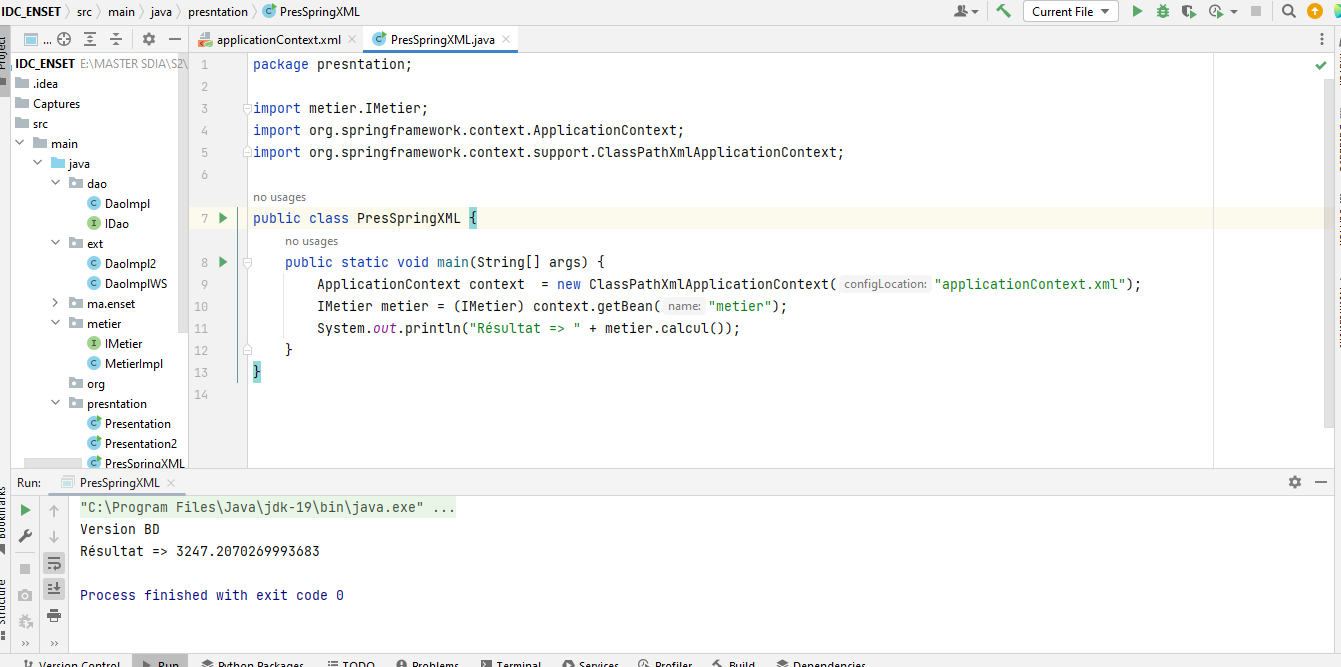
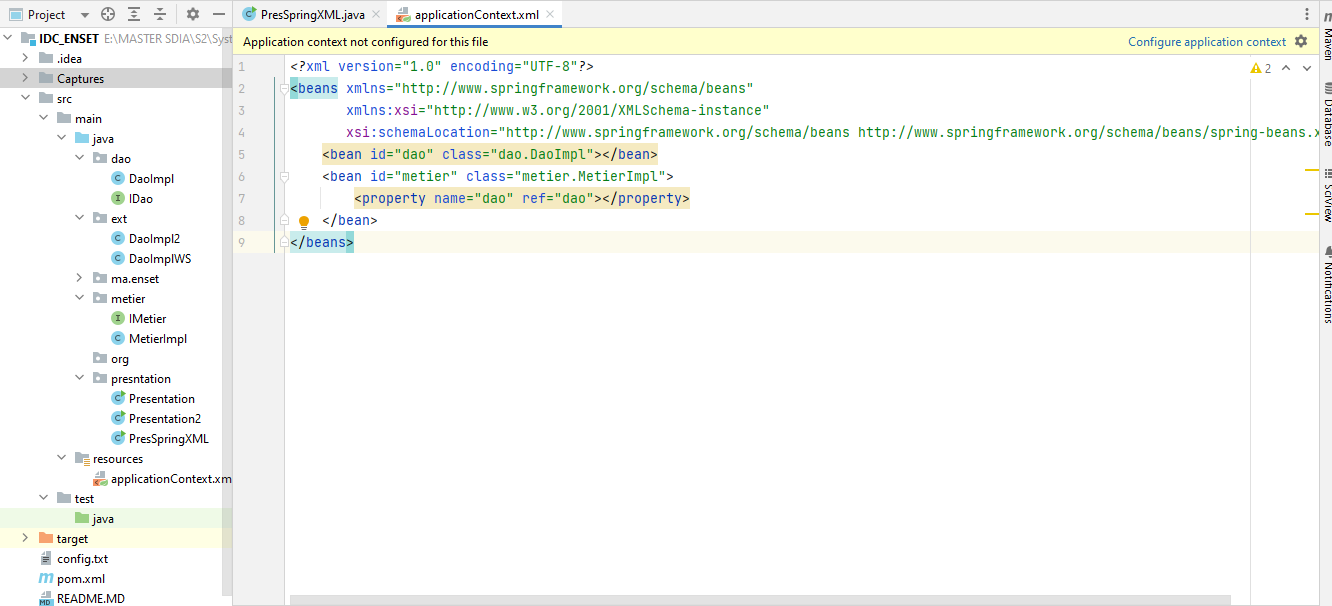
fourt Commit

diff --git a/src/main/java/presntation/PresSpringAnnotation.java b/src/main/java/presntation/PresSpringAnnotation.java
@@ -1,0 +1,14 @@
+package presntation;
+
+import metier.IMetier;
+import org.springframework.context.ApplicationContext;
+import org.springframework.context.annotation.AnnotationConfigApplicationContext;
+
+public class PresSpringAnnotation {
+    public static void main(String[] args) {
+        ApplicationContext context = new AnnotationConfigApplicationContext("dao","metier","ext");
+        IMetier metier = context.getBean(IMetier.class);
+        System.out.println(metier.calcul());
+    }
+}
+

diff --git a/src/main/java/metier/MetierImpl.java b/src/main/java/metier/MetierImpl.java
@@ -1,11 +1,17 @@
 package metier;
 
 import dao.IDao;
+import org.springframework.beans.factory.annotation.Autowired;
+import org.springframework.beans.factory.annotation.Qualifier;
+import org.springframework.stereotype.Component;
 
+@Component
 public class MetierImpl implements IMetier {
     // Couplage faible
+
     private IDao dao;
-    public MetierImpl (IDao dao) {
+
+    public MetierImpl(IDao dao) {
         this.dao = dao;
     }
     @Override

diff --git a/src/main/java/presntation/Presentation.java b/src/main/java/presntation/Presentation.java
@@ -9,8 +9,8 @@ public class Presentation {
         Injection des dependances par instanciation static => new
          */
         DaoImpl2 dao = new DaoImpl2();
-        MetierImpl metier = new MetierImpl();
-        metier.setDao(dao);
+        MetierImpl metier = new MetierImpl(dao);
+        //metier.setDao(dao);
         System.out.println("Resultat : "+ metier.calcul());
     }
 }

diff --git a/src/test/java/CalculTest.java b/src/test/java/CalculTest.java
@@ -1,0 +1,16 @@
+import metier.Calcul;
+import org.junit.Assert;
+import org.junit.Test;
+
+public class CalculTest {
+    private Calcul calcul;
+    @Test
+    public void testSomme(){
+        calcul= new Calcul();
+        double a  =5 ;
+        double b = 9;
+        double expected = 14;
+        double res = calcul.somme(a,b);
+        Assert.assertTrue(res==expected);
+    }
+}

diff --git a/src/main/java/ext/DaoImpl2.java b/src/main/java/ext/DaoImpl2.java
@@ -2,7 +2,9 @@ package ext;
 
 
 import dao.IDao;
+import org.springframework.stereotype.Component;
 
+@Component("dao2")
 public class DaoImpl2 implements IDao {
     @Override
     public double getData() {

diff --git a/src/main/java/dao/DaoImpl.java b/src/main/java/dao/DaoImpl.java
@@ -1,5 +1,8 @@
 package dao;
 
+import org.springframework.stereotype.Component;
+
+@Component("dao")
 public class DaoImpl implements IDao{
     @Override
     public double getData() {

diff --git a/src/main/java/metier/Calcul.java b/src/main/java/metier/Calcul.java
@@ -1,0 +1,7 @@
+package metier;
+
+public class Calcul {
+    public double somme(double a, double b){
+        return a + b;
+    }
+}

diff --git a/src/main/java/dao/IDao.java b/src/main/java/dao/IDao.java
@@ -1,5 +1,4 @@
 package dao;
-
 public interface IDao {
     double getData();
 }

diff --git a/README.MD b/README.MD
@@ -1,22 +1,122 @@
-<h3>COMPRE RENDU</h3>
-<h4 style="color:blue;">PARTIE 1</h4>
-<h5 ></h5>
-<img src="Captures/img.png">
-<h5 ></h5>
-<img src="Captures/img_1.png">
-<h5 ></h5>
-<img src="Captures/img_2.png">
-<h5 ></h5>
-<img src="Captures/img_3.png">
-<h5 ></h5>
-<img src="Captures/img_4.png">
-<h5 ></h5>
-<img src="Captures/img_5.png">
-<h5 ></h5>
-<img src="Captures/img_6.png">
+    <h2>COMPRE RENDU</h2>
+<h2 style="color:blue; ">Partie 1:</h2>
+<div style="padding-left: 1em;">
+<h3>I- Création des Interfaces et Implémentations</h3>
+<div style="padding-left: 1em;">
+<h4 style="padding-left: 2em;" >1. IDao Interface</h4>
+<p>Création de l'interface IDao avec la méthode getDate.</p>
+<img style="max-width: 750px;padding: 1em;border: 2px dotted rgb(0, 162, 255);border-radius: 30px;" src="Captures/IDao.png">
+
+<h4 style="padding-left: 2em;" >2. Implémentation de IDao</h4>
+<p>Développement d'une implémentation de l'interface IDao.</p>
+<img style="max-width: 750px;padding: 1em;border: 2px dotted rgb(0, 162, 255);border-radius: 30px;" src="Captures/DaoImpl.png">
+
+<h4 style="padding-left: 2em;" >3. IMetier Interface</h4>
+<p>Création de l'interface IMetier avec la méthode calcul.</p>
+<img style="max-width: 750px;padding: 1em;border: 2px dotted rgb(0, 162, 255);border-radius: 30px;" src="Captures/IMetier.png">
+
+<h4 style="padding-left: 2em;" >4. Implémentation de IMetier avec Couplage Faible</h4>
+<p>Implémentation de l'interface IMetier en utilisant le couplage faible.</p>
+<img style="max-width: 750px;padding: 1em;border: 2px dotted rgb(0, 162, 255);border-radius: 30px;" src="Captures/MetierImpl.png">
+
+<h4 style="padding-left: 2em;" >4. Implémentation de IMetier avec Couplage Faible</h4>
+<p>Implémentation de l'interface IMetier en utilisant le couplage faible.</p>
+<img style="max-width: 750px;padding: 1em;border: 2px dotted rgb(0, 162, 255);border-radius: 30px;" src="Captures/img_4.png">
+
+<h4 style="padding-left: 2em;" >5. Implémentation d'Extension de l'Interface Dao</h4>
+<p>Creation de class DaoImpl2 (Capteur).</p>
+<img style="max-width: 750px;padding: 1em;border: 2px dotted rgb(0, 162, 255);border-radius: 30px;" src="Captures/DaoImpl2.png">
+
+<p>Creation de class DaoImplWS (Web Service).</p>
+<img style="max-width: 750px;padding: 1em;border: 2px dotted rgb(0, 162, 255);border-radius: 30px;" src="Captures/DaoImplWS.png">
+</div>
+
+<h3>II-  Injection des Dépendances</h3>
+<div style="padding-left: 1em;">
+<h4 style="padding-left: 2em;" >1. Par Instanciation Statique</h4>
+<p>Mise en place de l'injection des dépendances par instanciation statique.</p>
+<p style="font-size: small;margin-left: 4em;">Version BD</p>
+<img style="max-width: 750px;padding: 1em;border: 2px dotted rgb(0, 162, 255);border-radius: 30px;" src="Captures/img.png">
+
+<p style="font-size: small;margin-left: 4em;">Version Capteur</p>
+<img style="max-width: 750px;padding: 1em;border: 2px dotted rgb(0, 162, 255);border-radius: 30px;" src="Captures/img_1.png">
+
+<h4 style="padding-left: 2em;" >2. Par Instanciation Dynamique</h4>
+<p>Réalisation de l'injection des dépendances par instanciation dynamique on utilisant un fichier txt.</p>
+
+<p style="font-size: small;margin-left: 4em;">config.txt</p>
+<img style="max-width: 750px;padding: 1em;border: 2px dotted rgb(0, 162, 255);border-radius: 30px;" src="Captures/img_2.png">
+
+<p style="font-size: small;margin-left: 4em;">Test de injection des dépendances par instanciation  dynamique(Version BD).</p>
+<img style="max-width: 750px;padding: 1em;border: 2px dotted rgb(0, 162, 255);border-radius: 30px;" src="Captures/img_3.png">
+
+<p style="font-size: small;margin-left: 4em;">On effectue un changement dans la premier ligne dans config.txt</p>
+<img style="max-width: 750px;padding: 1em;border: 2px dotted rgb(0, 162, 255);border-radius: 30px;" src="Captures/img_4.png">
+
+<p style="font-size: small;margin-left: 4em;">Test de injection des dépendances par instanciation  dynamique(Version WS).</p>
+<img style="max-width: 750px;padding: 1em;border: 2px dotted rgb(0, 162, 255);border-radius: 30px;" src="Captures/img_5.png">
+
+<h4 style="padding-left: 2em;" >3.  En Utilisant le Framework SpringXML</h4>
+<p>Configuration des beans et injection des dépendances via le fichier XML.</p>
+
+<p style="font-size: small;margin-left: 4em;">Fichier ApplicationContext.xml</p>
+<img style="max-width: 750px;padding: 1em;border: 2px dotted rgb(0, 162, 255);border-radius: 30px;" src="Captures/img_8.png">
+
+<p style="font-size: small;margin-left: 4em;">Test de injection des dépendances par Framework SpringXML (Version Captures).</p>
+<img style="max-width: 750px;padding: 1em;border: 2px dotted rgb(0, 162, 255);border-radius: 30px;" src="Captures/img_9.png">
+
+<h4 style="padding-left: 2em;" >4.  En Utilisant le Framework Spring Annotation</h4>
+<p>Utilisation des annotations de Spring pour la configuration et l'injection des dépendances.</p>
 
 
+<p style="font-size: small;margin-left: 4em;">Ajouter @Compenent a l'Implémentation de IDao DaoImpl.</p>
+<img style="max-width: 750px;padding: 1em;border: 2px dotted rgb(0, 162, 255);border-radius: 30px;" src="Captures/img_12.png">
 
+<p style="font-size: small;margin-left: 4em;">Ajouter @Compenent et @Autowired a MartieImpl.</p>
+<img style="max-width: 750px;padding: 1em;border: 2px dotted rgb(0, 162, 255);border-radius: 30px;" src="Captures/img_13.png">
 
+<p style="font-size: small;margin-left: 4em;">Dans test avant tous on choisir les packages des classes qu'on va utilise.</p>
+<img style="max-width: 750px;padding: 1em;border: 2px dotted rgb(0, 162, 255);border-radius: 30px;" src="Captures/img_14.png">
 
+<p style="font-size: small;margin-left: 4em;">On peux aussi utilise constructeur.</p>
+<img style="max-width: 750px;padding: 1em;border: 2px dotted rgb(0, 162, 255);border-radius: 30px;" src="Captures/img_15.png">
 
+<p>Pour utilise differents extension on doit effectue les changement suivant :</p>
+
+<p style="font-size: small;margin-left: 4em;">Ajouter @Compenent a l'extention.</p>
+<img style="max-width: 750px;padding: 1em;border: 2px dotted rgb(0, 162, 255);border-radius: 30px;" src="Captures/img_20.png">
+
+<p style="font-size: small;margin-left: 4em;">Ajouter @Qualifier a MartieImpl avec le nom d'extension (dans notre example DaoImpl2)</p>
+<img style="max-width: 750px;padding: 1em;border: 2px dotted rgb(0, 162, 255);border-radius: 30px;" src="Captures/img_21.png">
+
+<p style="font-size: small;margin-left: 4em;">Dans test on ajouter le package ext aux packages des classes qu'on va utilise.</p>
+<img style="max-width: 750px;padding: 1em;border: 2px dotted rgb(0, 162, 255);border-radius: 30px;" src="Captures/img_22.png">
+</div>
+
+<h3>III- Test</h3>
+<div style="padding-left: 1em;">
+<h4 style="padding-left: 2em;" >1. Class Calcul</h4>
+<p>Création de class Calcul avec la method somme.</p>
+<img style="max-width: 750px;padding: 1em;border: 2px dotted rgb(0, 162, 255);border-radius: 30px;" src="Captures/img_23.png">
+
+<h4 style="padding-left: 2em;" >2. Tester la methode dans la partie test de maven</h4>
+<p>En utilise la methode assertTrue.</p>
+<img style="max-width: 750px;padding: 1em;border: 2px dotted rgb(0, 162, 255);border-radius: 30px;" src="Captures/img_24.png">
+
+</div>
+</div>
+<h2>Conclusion</h2>
+<p>Pendant la réalisation de ce travail pratique, De nombreuses leçons significatives ont été extraites. Parmi les éléments essentiels à retenir :</p>
+<ul>
+    <li>Couplage Faible et Flexibilité : L'utilisation du couplage faible dans l'implémentation de IMetier a illustré comment cette approche peut accroître la flexibilité et simplifier les modifications ultérieures.</li>
+    <li>Injection des Dépendances avec Spring : Les différentes méthodes d'injection des dépendances, qu'il s'agisse de l'instanciation statique, dynamique ou via Spring, ont été explorées. Chacune présente ses avantages et inconvénients, le choix dépendant des besoins spécifiques du projet.</li> 
+</ul>
+
+<h3>Ressources</h3>
+<ul>
+    <li>Part 1 : https://www.youtube.com/watch?v=08eEhNKOw7I</li>
+    <li>Part 2 : https://www.youtube.com/watch?v=oP-6ly2Zt5E</li>
+</ul>
+
+<h3>Auteur : </h3>
+<h5>EL HASSOUNI Younes (19/02/2024)</h5>
